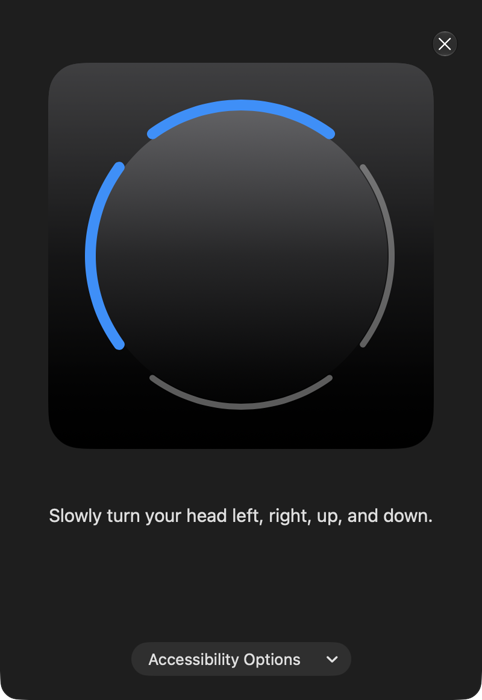
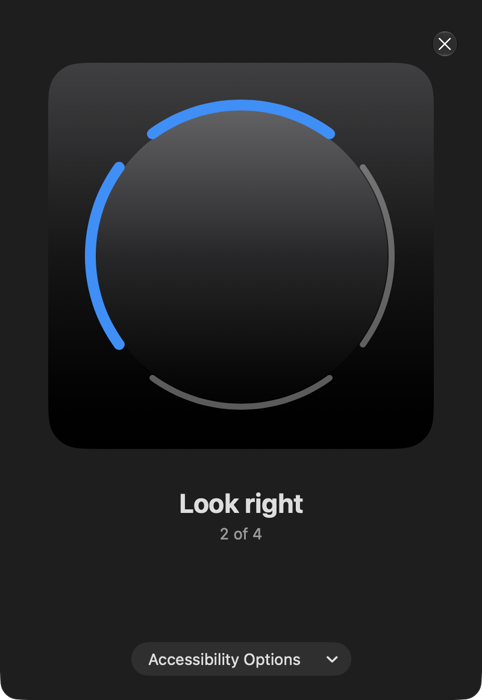
README: the new face scan

Changed region(s): [[0.0934, 0.69, 0.9025, 0.78]]

diff --git a/README.md b/README.md
@@ -112,7 +112,7 @@ The first time, FaceUnlock opens a **setup guide**: it walks through the camera,
   <img src="Screenshots/readme/guide-all-set.png" width="230" alt="You are all set">
 </p>
 
-1. Choose **Set Up Face Recognition** and complete the head-turn scan.
+1. Choose **Set Up Face Recognition**. Look left, right, up and down as it asks, face the screen, and press **Done** when the tick draws.
 2. Try **Settings → Face Unlock & Password → Test Recognition**. It types nothing and shows the match score.
 3. Enter your Mac password and allow **Accessibility** (and **Notifications** if you like).
 4. Turn on **Unlock with Front Camera** and confirm with Touch ID.
@@ -238,9 +238,9 @@ The website’s source is kept separately.
 
 ## Status
 
-**Confirmed** on one MacBook Pro, macOS 27.0.1: recognition, real lock-screen unlocks with the liveness, typing and animation code.
+**Confirmed** on one MacBook Pro, macOS 27.0.1: recognition, real lock-screen unlocks with the liveness, typing and animation code, and (1.9.1) the face setup scan, including one with glasses.
 
-**Not confirmed:** photo and video attempts against the liveness checks (tested on simulated data only), the Maximum challenge, the head-turn setup scan, glasses and hat scans, another person, dim light, lock-when-you-leave, a real time-limit expiry, Intel Macs, and Macs without a notch or with a Dynamic Island. Masks are not supported.
+**Not confirmed:** photo and video attempts against the liveness checks (tested on simulated data only), the Maximum challenge, hat scans, another person, dim light, lock-when-you-leave, a real time-limit expiry, Intel Macs, and Macs without a notch or with a Dynamic Island. Masks are not supported.
 
 ## Credits and licence
 
